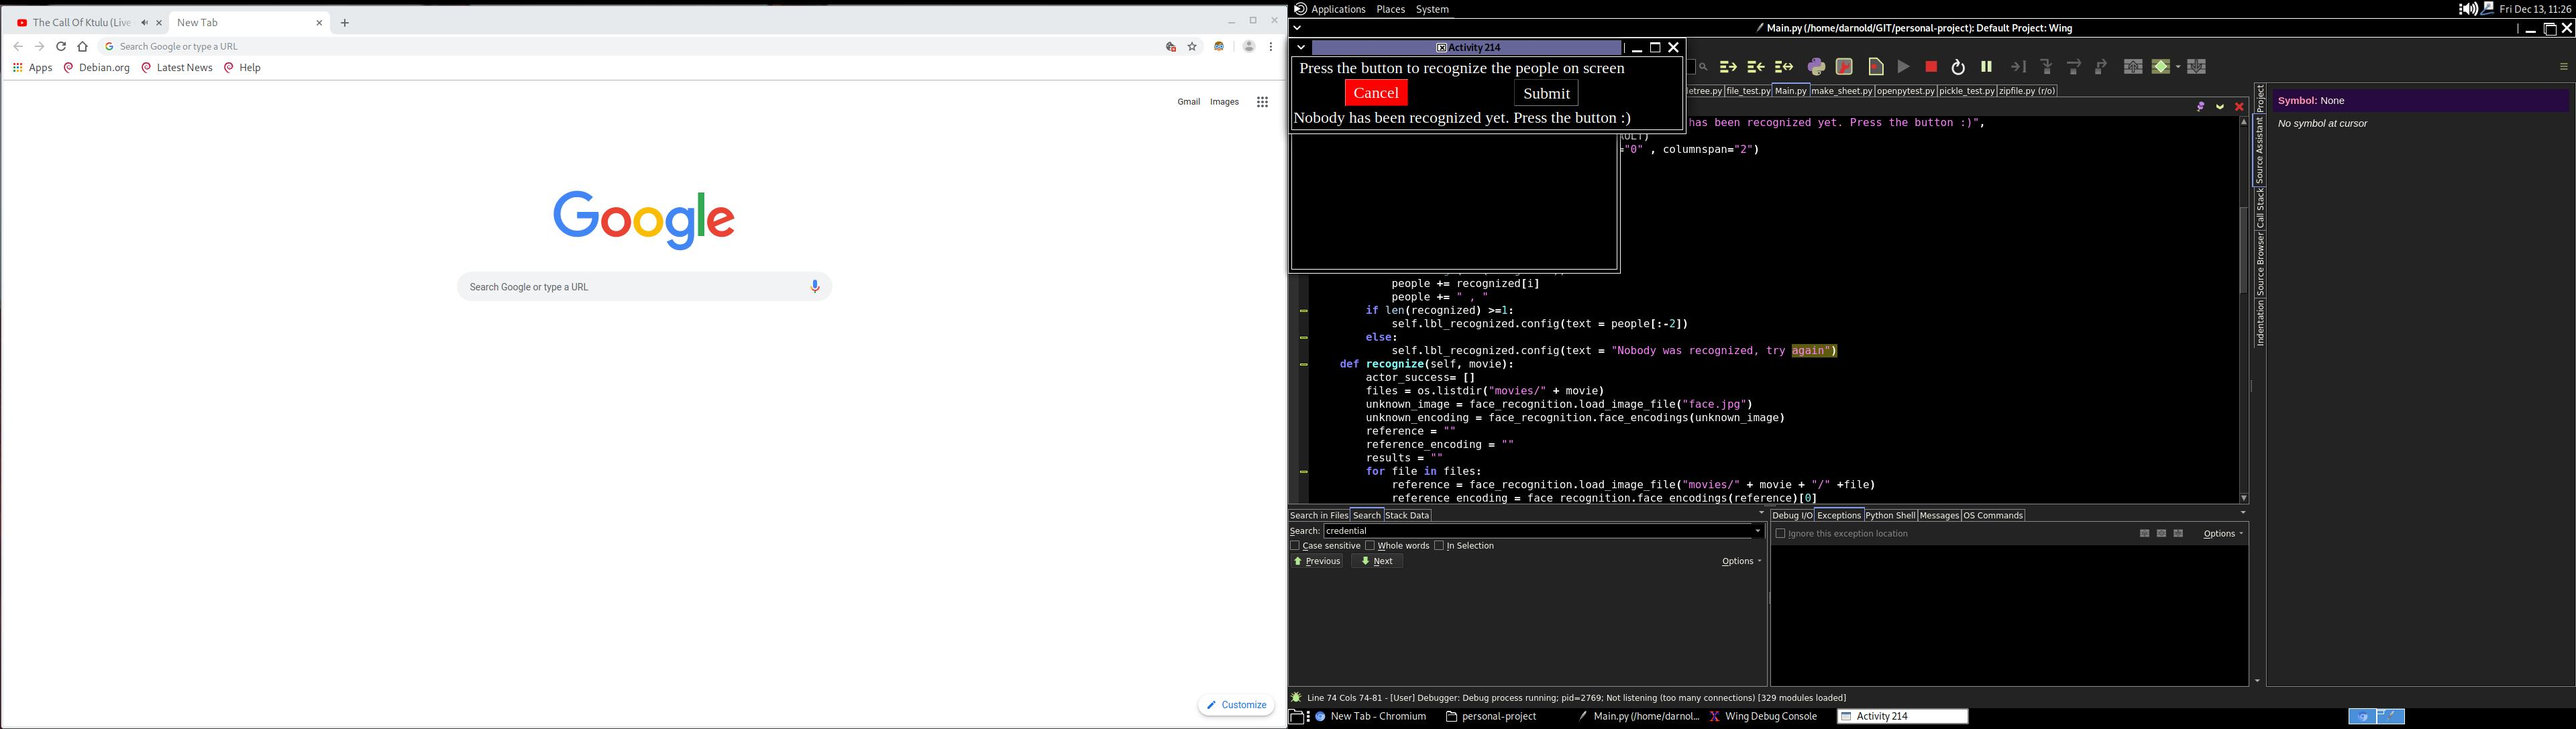
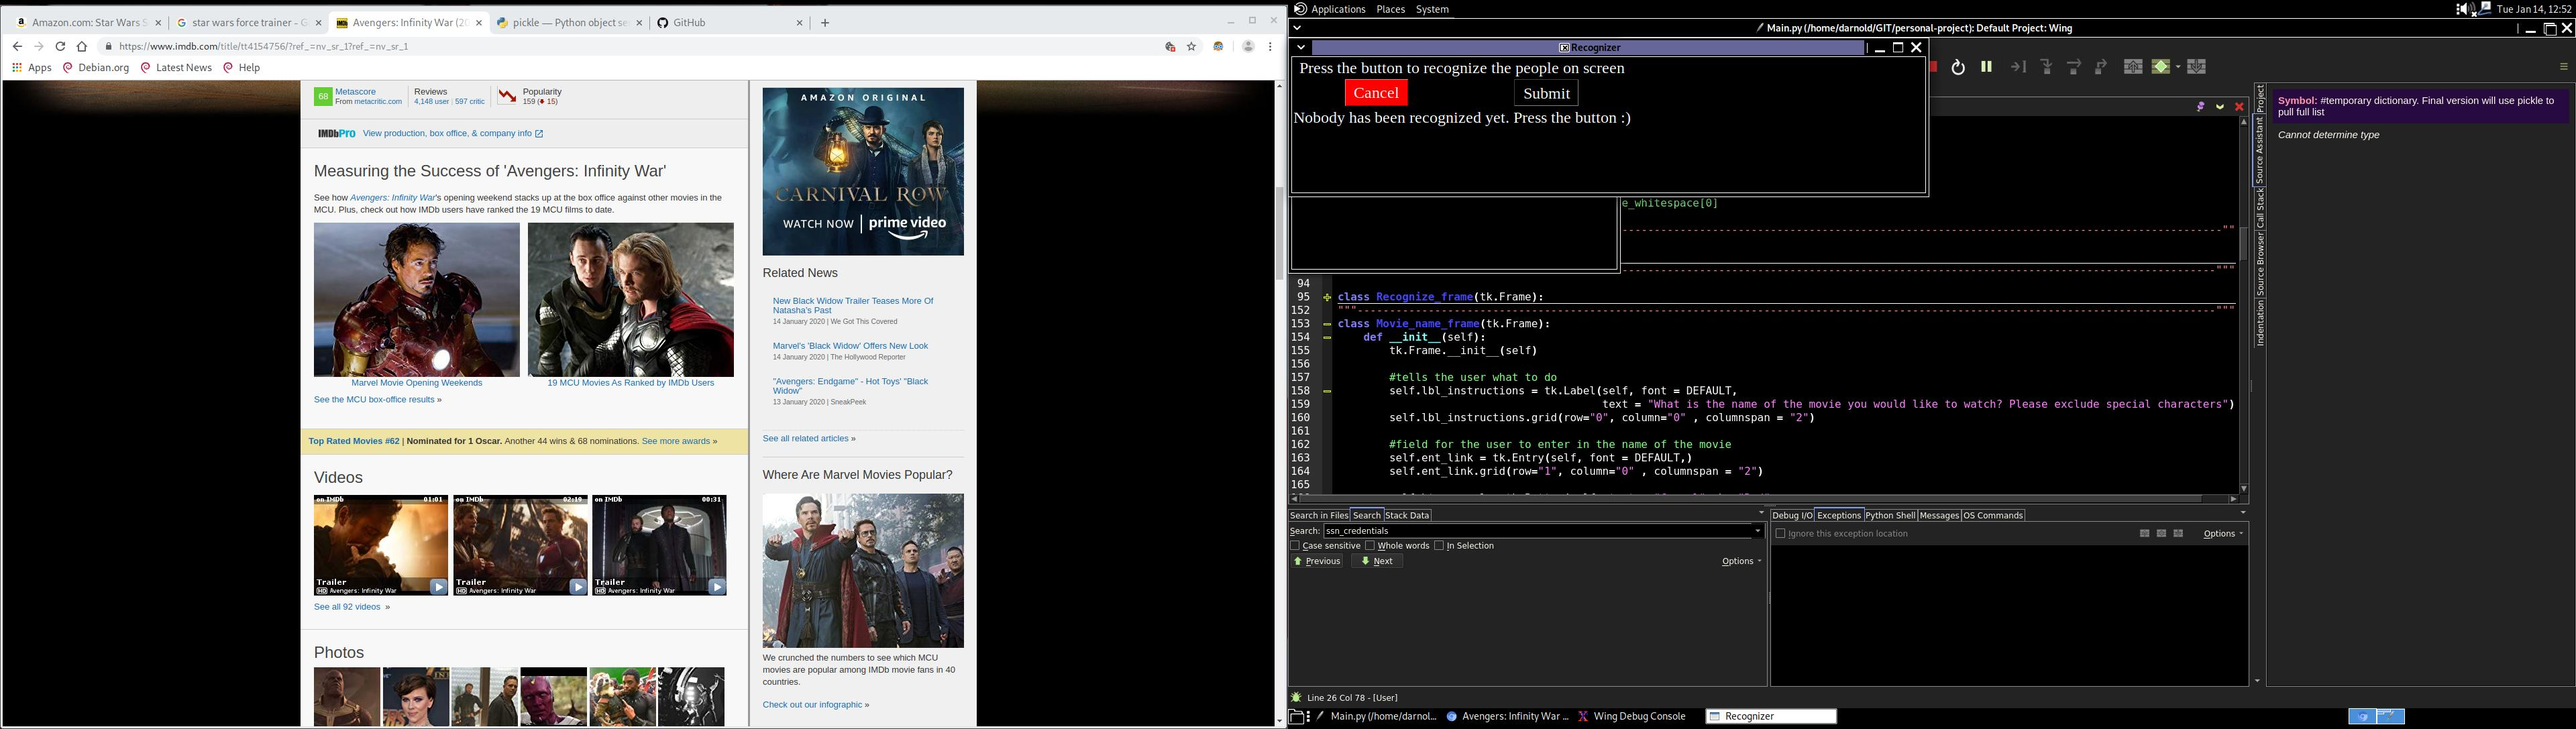
modified:   Main.py 	modified:   face.jpg 	new file:   movie_dict.p 	new file:   movies/movie_dict.p

diff --git a/Main.py b/Main.py
@@ -1,40 +1,51 @@
-import  os
+#used to take a screenshot
+import pyautogui 
+#file management
+import os
 #used to recognize faces
 import face_recognition
+#builds the GUI
 import tkinter as tk
+#used to process the HTML file
 from bs4 import BeautifulSoup as bs
+#requests the HTMl file from a website
 import requests as rq
+#used to store variables as a data file
 import pickle
 #GLobal Variables
 actor_success = ""
 movie  = "Avengers_Infinity_War"
 DEFAULT = ("Times New Roman", 18)
-class Movie_frame(tk.Frame):
+
+
+"""this program allows the user to recognize famous faces in movies, with the names of the characters they play by pulling a list of
+actors off of IMDB"""
+#Data classes
+class Movies(object):
     def __init__(self):
-        tk.Frame.__init__(self)
-        self.lbl_instructions = tk.Label(self, font = DEFAULT, 
-                                          text = "Enter the IMDB link for the movie you would like to watch").grid(
-                                              row="0", column="0")
-        
-        self.ent_link = tk.Entry(self, font = DEFAULT,)
-        self.ent_link.grid(row="1", column="0")
-        
-        self.btn_submit = tk.Button(self, text = "Submit", bg="green",
-                              command = self.raise_recognize, font=DEFAULT).grid(
-                                              row="2", column="0")    
-    
-    def raise_temp(self):
-        actors_characters = self.imdb_scrape(self.ent_link.get())
-        actors = actors_characters[0]
+        #temporary dictionary. Final version will use pickle to pull full list
+        try:
+            self.pickled_dict = open("movie_dict.p", "rb")
+            self.movie_dict = pickle.load(self.pickled_dict)
+            self.pickled_dict.close()
+            print("option 1")
+        except:
+            self.pickled_dict = open("movie_dict.p", "wb")
+            self.movie_dict = {"Avengers_Infinity_War" : {"Chris Hemsworth":"Thor" , "Robert Downey JR":"Iron Man"}}
+            pickle.dump(self.movie_dict, self.pickled_dict)
+            self.pickled_dict.close()
+            print("option 2")
+        self.actor_dict = {}
+        self.actors = []
+    def scraper(self, website):
+        actors_characters = self.imdb_scrape(website)
+        self.actors = actors_characters[0]
+        print(len(self.actors)/5)
         characters = actors_characters[1]
-        print(actors)
-        print(characters)
-        frame_temp.lbl_actors.configure(text = actors )
-        frame_temp.tkraise()
-    
-    def raise_recognize(self):
-        frame_recognize.tkraise() 
-    
+        
+        for i in range(len(characters)):
+            self.actor_dict[self.actors[i]] = characters[i]     
+        
     def imdb_scrape(self, website):
         #makes an  html request to the given site
         r = rq.get(website, verify=False)
@@ -56,7 +67,37 @@ class Movie_frame(tk.Frame):
             characters[i] = characters[i].strip()
             #character_remove_whitespace = characters[i].split("/n")
             #characters[i] = character_remove_whitespace[0]
-        return [actors , characters]   
+        return [actors , characters]    
+"""--------------------------------------------------------------------------------------------------------------------------------------"""
+#Frame Classes
+class Movie_frame(tk.Frame):
+    def __init__(self):
+        tk.Frame.__init__(self)
+        self.lbl_instructions = tk.Label(self, font = DEFAULT, 
+                                          text = "Enter the IMDB link for the movie you would like to watch").grid(
+                                              row="0", column="0" , columnspan = "2")
+        
+        #This is where the user enters a link to the movie they wish to watch
+        self.ent_link = tk.Entry(self, font = DEFAULT,)
+        self.ent_link.grid(row="1", column="0" , columnspan = "2")
+        
+        #the buttons that quit or submit
+        self.btn_quit = tk.Button(self, text = "quit", bg="red",
+                              command = self.quit, font=DEFAULT).grid(
+                                              row="2", column="0")    
+        
+        self.btn_submit = tk.Button(self, text = "Submit", bg="green",
+                              command = self.raise_movie_name_frame, font=DEFAULT).grid(
+                                              row="2", column="1" )        
+    def quit(self):
+        root.destroy()
+    def raise_movie_name_frame(self):
+        movies.scraper(self.ent_link.get())
+        frame_movie_name.tkraise()
+    def raise_recognize(self):
+        frame_recognize.tkraise() 
+    
+       
     
 
 """-------------------------------------------------------------------------------------------------------------------------------------"""    
@@ -76,21 +117,29 @@ class Recognize_frame(tk.Frame):
         self.lbl_recognized = tk.Label(self, text="Nobody has been recognized yet. Press the button :)",
                                        font=DEFAULT)
         self.lbl_recognized.grid(row="2",column="0" , columnspan="2")
+        self.btn_exit = tk.Button(self, text = "Exit", bg="red",
+                                  command = self.exit ,font = DEFAULT).grid(
+                                      row="3", column="0", columnspan = "2")        
     def raise_movie(self):
         frame_movie.tkraise()    
     def execute(self):
+        
         print('execution start')
         people = ""
         im1 = pyautogui.screenshot('face.jpg')
         print('calling recognize')
         recognized = self.recognize(movie)
+        
         for i in range(len(recognized)):
             people += recognized[i]
             people += " , "
+            
         if len(recognized) >=1:
             self.lbl_recognized.config(text = people[:-2])
+        
         else:
             self.lbl_recognized.config(text = "Nobody was recognized, try again")
+    
     def recognize(self, movie):
         actor_success= []
         files = os.listdir("movies/" + movie)
@@ -99,18 +148,57 @@ class Recognize_frame(tk.Frame):
         reference = ""
         reference_encoding = ""
         results = ""
+        
         for file in files:
             reference = face_recognition.load_image_file("movies/" + movie + "/" +file)
             reference_encoding = face_recognition.face_encodings(reference)[0]
+            
             for face_encoding in unknown_encoding:
                 results = face_recognition.compare_faces([reference_encoding], face_encoding)
+                
                 if results[0] == True:
                     actor_success.append(file[:-4])
         print('recognize completed')
         return actor_success
+    def exit(self):
+        movies_file = open("./movies/movie_dict.p", "wb")
+        pickle.dump(movies.movie_dict, movies_file)
+        movies_file.close()
+        root.destroy()    
 
 
 """-------------------------------------------------------------------------------------------------------------------------------------"""
+class Movie_name_frame(tk.Frame):
+    def __init__(self):
+        tk.Frame.__init__(self)
+        
+        #tells the user what to do
+        self.lbl_instructions = tk.Label(self, font = DEFAULT, 
+                                         text = "What is the name of the movie you would like to watch? Please exclude special characters")
+        self.lbl_instructions.grid(row="0", column="0" , columnspan = "2")
+        
+        #field for the user to enter in the name of the movie
+        self.ent_link = tk.Entry(self, font = DEFAULT,)
+        self.ent_link.grid(row="1", column="0" , columnspan = "2")
+        
+        self.btn_cancel = tk.Button(self, text = "Cancel", bg="Red",
+                              command = self.raise_movie_frame, font=DEFAULT).grid(
+                                              row="2", column="0")
+        self.btn_submit = tk.Button(self, text = "Submit", bg="green",
+                              command = self.raise_temp, font=DEFAULT).grid(
+                                              row="2", column="1")
+    def raise_movie_frame(self):
+        frame_movie.tkraise()        
+    def raise_temp(self):
+        #print(actors)
+        #print(characters)
+        
+        #changes the text on the temp frame to the names of the actors
+        frame_temp.lbl_actors1.configure(text = movies.actors[0:5] )
+        frame_temp.lbl_actors2.configure(text = movies.actors[5:10] )
+        frame_temp.lbl_actors3.configure(text = movies.actors[10:15] )
+        frame_temp.tkraise()
+    
 
 class Temp_frame(tk.Frame):
     def __init__(self):
@@ -118,17 +206,46 @@ class Temp_frame(tk.Frame):
         self.actors = ""
         self.lbl_instructions = tk.Label(self, font = DEFAULT, 
                                          text = "Please find photos for these actors, and ")
-        self.lbl_instructions.grid(row="0", column="0")    
+        self.lbl_instructions.grid(row="0", column="0" , columnspan = "2")
+        
         self.lbl_instructions2 = tk.Label(self, font = DEFAULT,
                                           text = "place them in a folder with the name of the movie you are watching: ")
-        self.lbl_instructions2.grid(row="1", column="0")    
-        self.lbl_actors = tk.Label(self, font = DEFAULT, 
-                                         text = "")
-        self.lbl_actors.grid(row="2", column="0")            
+        self.lbl_instructions2.grid(row="1", column="0" , columnspan = "2")    
         
+        #labels holding the names of the actors
+        self.lbl_actors1 = tk.Label(self, font = DEFAULT, 
+                                         text = "")
+        self.lbl_actors1.grid(row="2", column="0" , columnspan = "2")
+       
+        self.lbl_actors2 = tk.Label(self, font = DEFAULT, 
+                                         text = "")
+        self.lbl_actors2.grid(row="3", column="0" , columnspan = "2")
+       
+        self.lbl_actors3 = tk.Label(self, font = DEFAULT, 
+                                         text = "")
+        self.lbl_actors3.grid(row="4", column="0" , columnspan = "2")        
+        
+        #these are the buttons to cancel or submit
+        self.btn_cancel = tk.Button(self, text = "Cancel", bg="Red",
+                              command = self.test, font=DEFAULT).grid(
+                                              row="5", column="0") 
+        self.btn_submit = tk.Button(self, text = "Submit", bg="green",
+                              command = self.raise_recognize, font=DEFAULT).grid(
+                                              row="5", column="1")        
+    def test(self):
+        pass
 
-
+    def raise_recognize(self):
+        frame_recognize.tkraise()
+ 
 """-------------------------------------------------------------------------------------------------------------------------------------"""
+"""-------------------------------------------------------------------------------------------------------------------------------------"""
+#dataclass initialization
+movies = Movies()
+"""initializing tkinter Windows
+This is where the magic happens"""
+
+
 
 #tkinter initialization
 root = tk.Tk()
@@ -141,6 +258,10 @@ frame_recognize.grid(row="0", column="0" , sticky="news")
 #The Frame to let you choose the movie
 frame_movie = Movie_frame()
 frame_movie.grid(row="0", column="0", sticky="news")
+
+#The frame to add the name of a movie to a folder name
+frame_movie_name = Movie_name_frame()
+frame_movie_name.grid(row="0", column="0", sticky="news")
 
 #Temporary frame with the names of actors in a movie
 frame_temp = Temp_frame()
